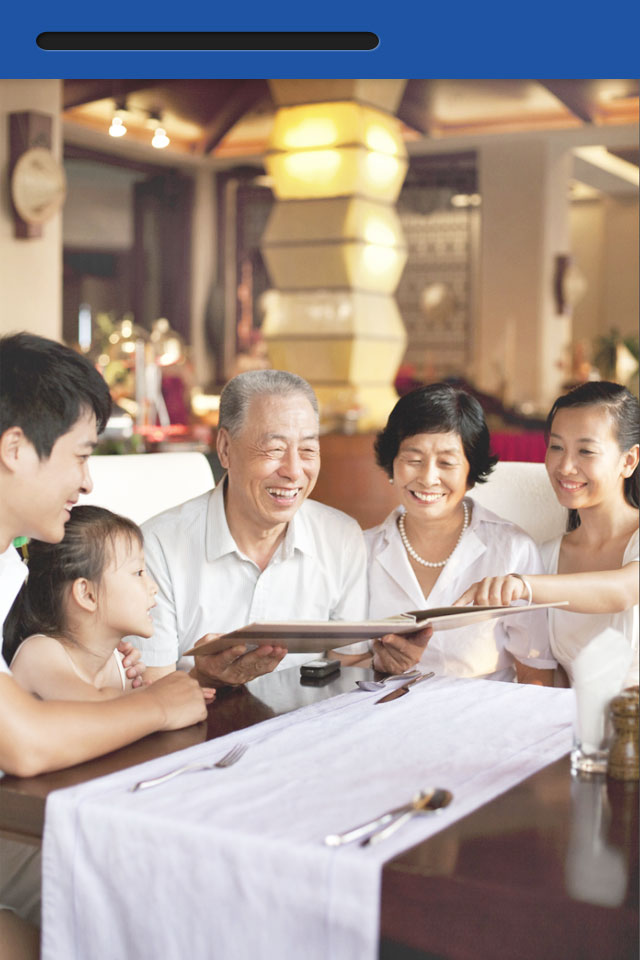
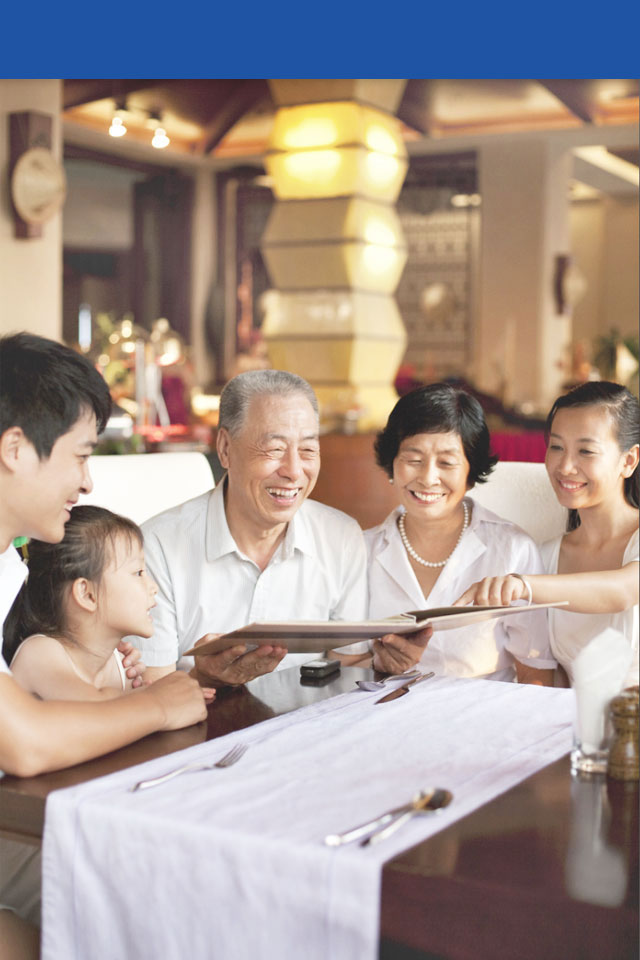
[!]

Changed region(s): [[0.0625, 0.0312, 0.5938, 0.0625]]

diff --git a/demo/webank/css/style.css b/demo/webank/css/style.css
@@ -411,8 +411,10 @@ body{ background:#1f54a4;}
 .index_2 .con_wrap_1{ background:url(../data/tete_2.jpg) no-repeat 0 0; background-size:100% 100%;}
 .index_2 .con_wrap_2{ background:url(../data/tete_3.jpg) no-repeat 0 0; background-size:100% 100%;}
 .index_2 .con_wrap_3{ background:url(../data/tete_4.jpg) no-repeat 0 0; background-size:100% 100%;}
-.index_2 .paper_wrap{ display:block; height:105px; width:165px; position:absolute; left:23px; top:17px; overflow:hidden;}
-.index_2 .paper_wrap .paper{ display:block; height:105px; width:165px; background:url(../data/tete_1_1.png) no-repeat 0 0; background-size:contain; position:absolute; left:0px; top:-105px;}
+.index_2 .paper_wrap{ display:block; height:115px; width:174px; position:absolute; left:17px; top:12px;}
+.index_2 .paper_wrap .paper_show{ display:block; height:105px; width:165px; position:absolute; left:6px; top:5px; z-index:1; overflow:hidden;}
+.index_2 .paper_wrap .paper{ display:block; height:105px; width:165px; background:url(../data/tete_1_1.png) no-repeat 0 0; background-size:contain; position:absolute; left:0px; top:-110px;}
+.index_2 .paper_wrap .hole{ display:block; height:12px; width:174px; background:url(../data/tete_hole.png) no-repeat 0 0; background-size:contain; position:absolute; left:0px; top:0px;}
 .index_2 .paper_wrap .paper_1{ background-image:url(../data/tete_1_1.png);}
 .index_2 .paper_wrap .paper_2{ background-image:url(../data/tete_2_1.png);}
 .index_2 .paper_wrap .paper_3{ background-image:url(../data/tete_3_1.png);}
@@ -420,7 +422,7 @@ body{ background:#1f54a4;}
 
 @-webkit-keyframes a_paper{
 	0%{ -webkit-transform:translate(0,0);}
-	100%{ -webkit-transform:translate(0,105px);}
+	100%{ -webkit-transform:translate(0,110px);}
 }
 
 /**/
@@ -461,7 +463,6 @@ body{ background:#1f54a4;}
 	.open_door_area{ top:58px;}
 	.contact_area{ top:292px;}
 	.penguin_dialog{ top:31px;}
-	.index_2 .paper_wrap{ top:20px;}
 }
 
 

diff --git a/demo/webank/index_2.html b/demo/webank/index_2.html
@@ -30,7 +30,10 @@
 <div class="con_wrap con_wrap_1 wrap_prepare">
 	
     <div class="paper_wrap">
-    	<div class="paper paper_1"></div>
+    	<div class="paper_show">
+    		<div class="paper paper_1"></div>
+        </div>
+        <i class="hole"></i>
     </div>
     
     <a href="##" class="arrow_up">向上滑动</a>
@@ -40,7 +43,10 @@
 <div class="con_wrap con_wrap_2 wrap_prepare">
 	
     <div class="paper_wrap">
-    	<div class="paper paper_2"></div>
+    	<div class="paper_show">
+    		<div class="paper paper_2"></div>
+        </div>
+        <i class="hole"></i>
     </div>
     
     <a href="##" class="arrow_up">向上滑动</a>
@@ -49,7 +55,10 @@
 <div class="con_wrap con_wrap_3 wrap_prepare">
 	
     <div class="paper_wrap">
-    	<div class="paper paper_3"></div>
+    	<div class="paper_show">
+    		<div class="paper paper_3"></div>
+        </div>
+        <i class="hole"></i>
     </div>
     
     <a href="##" class="arrow_up">向上滑动</a>
